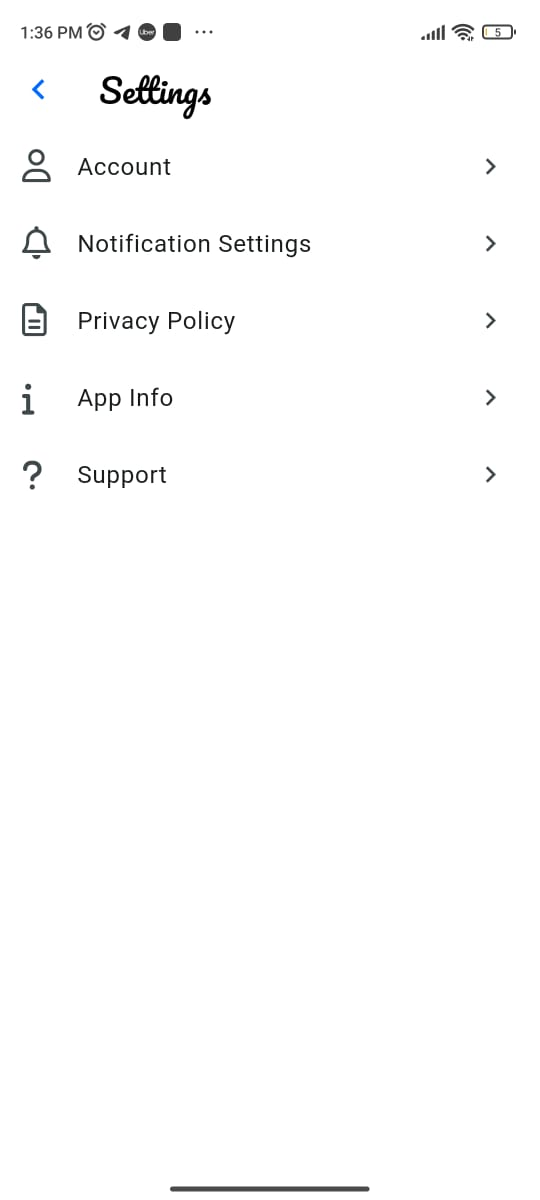
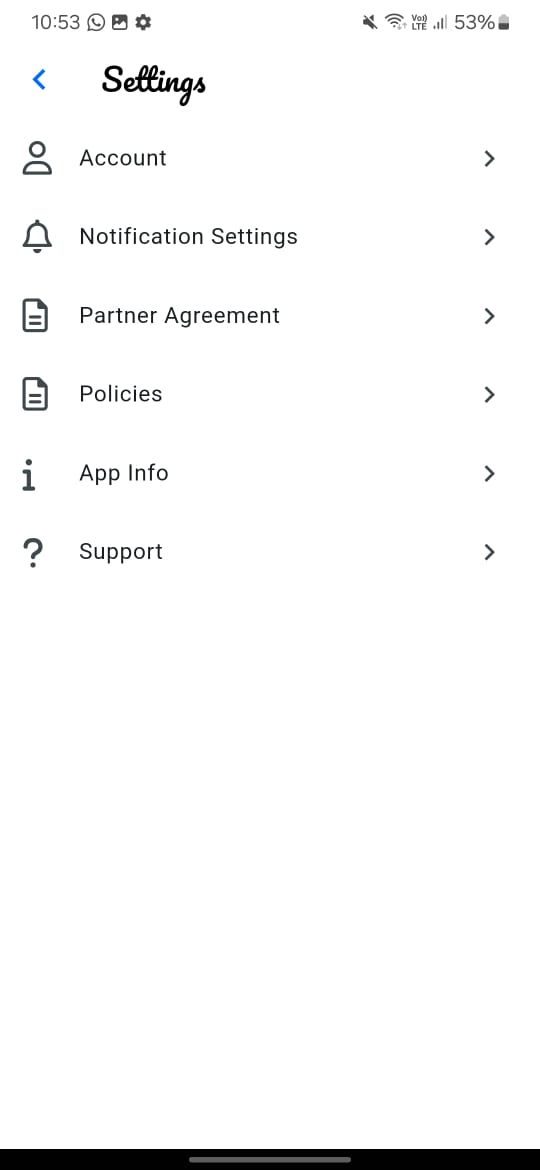
Updated with report feature and other changes

diff --git a/docs/influencer_connect.md b/docs/influencer_connect.md
@@ -7,7 +7,8 @@
 
 <img src="./influencer_profile.jpg" width=150 >
 
-* Click on `Chat` to initiate a conversation with the influencer/expert.
+* Click on `Follow` to get alerts and notifications for that influencer/expert.
+* Click on `Message` to initiate a chat with that influencer/expert.
 
 <img src="./image-1.png" width=150 >
 
@@ -81,5 +82,17 @@
 <img src="./no_notifs.jpg" width=150 >
 <img src="./with_notifs.png" width=150 >
 
+## Report Influencer/Expert
 
+* This feature is used to report any inappropriate content or activity of the Tawx platform
+
+<img src="influencer_profile.jpg" width=150 >
+
+* Clicking on the `report` symbol at the top right of the screen will open up the form to report the influencer/expert
+
+<img src="report_profile.jpg" width=150 >
+
+* The option is also available on the chat page of the influencer/expert
+
+<img src="report_chat.jpg" width=150 >
 

diff --git a/docs/Utilities.md b/docs/Utilities.md
@@ -47,16 +47,25 @@
 
 * User can change the settings of alerts and notifcations of the app using this menu
 
+### Partner Agreement
 
 
-### Privacy Policy
+<img src="partner_agreement.jpg" width=150 >
 
 
-<img src="privacy policy.jpg" width=150 >
-<img src="tc.jpg" width=150 >
+* It contains the rules and regulations that a partner has to abide by to use the Tawx platform
 
 
-* User can read on the app usage privacy policy and terms and conditions for using the app
+
+### Policies
+
+
+<img src="p1.jpg" width=150 >
+<img src="p2.jpg" width=150 >
+<img src="p3.jpg" width=150 >
+
+
+* User can read on the app usage privacy policy, terms and conditions & the cacellation and refund policy for using the Tawx app
 
 
 ### App Info
